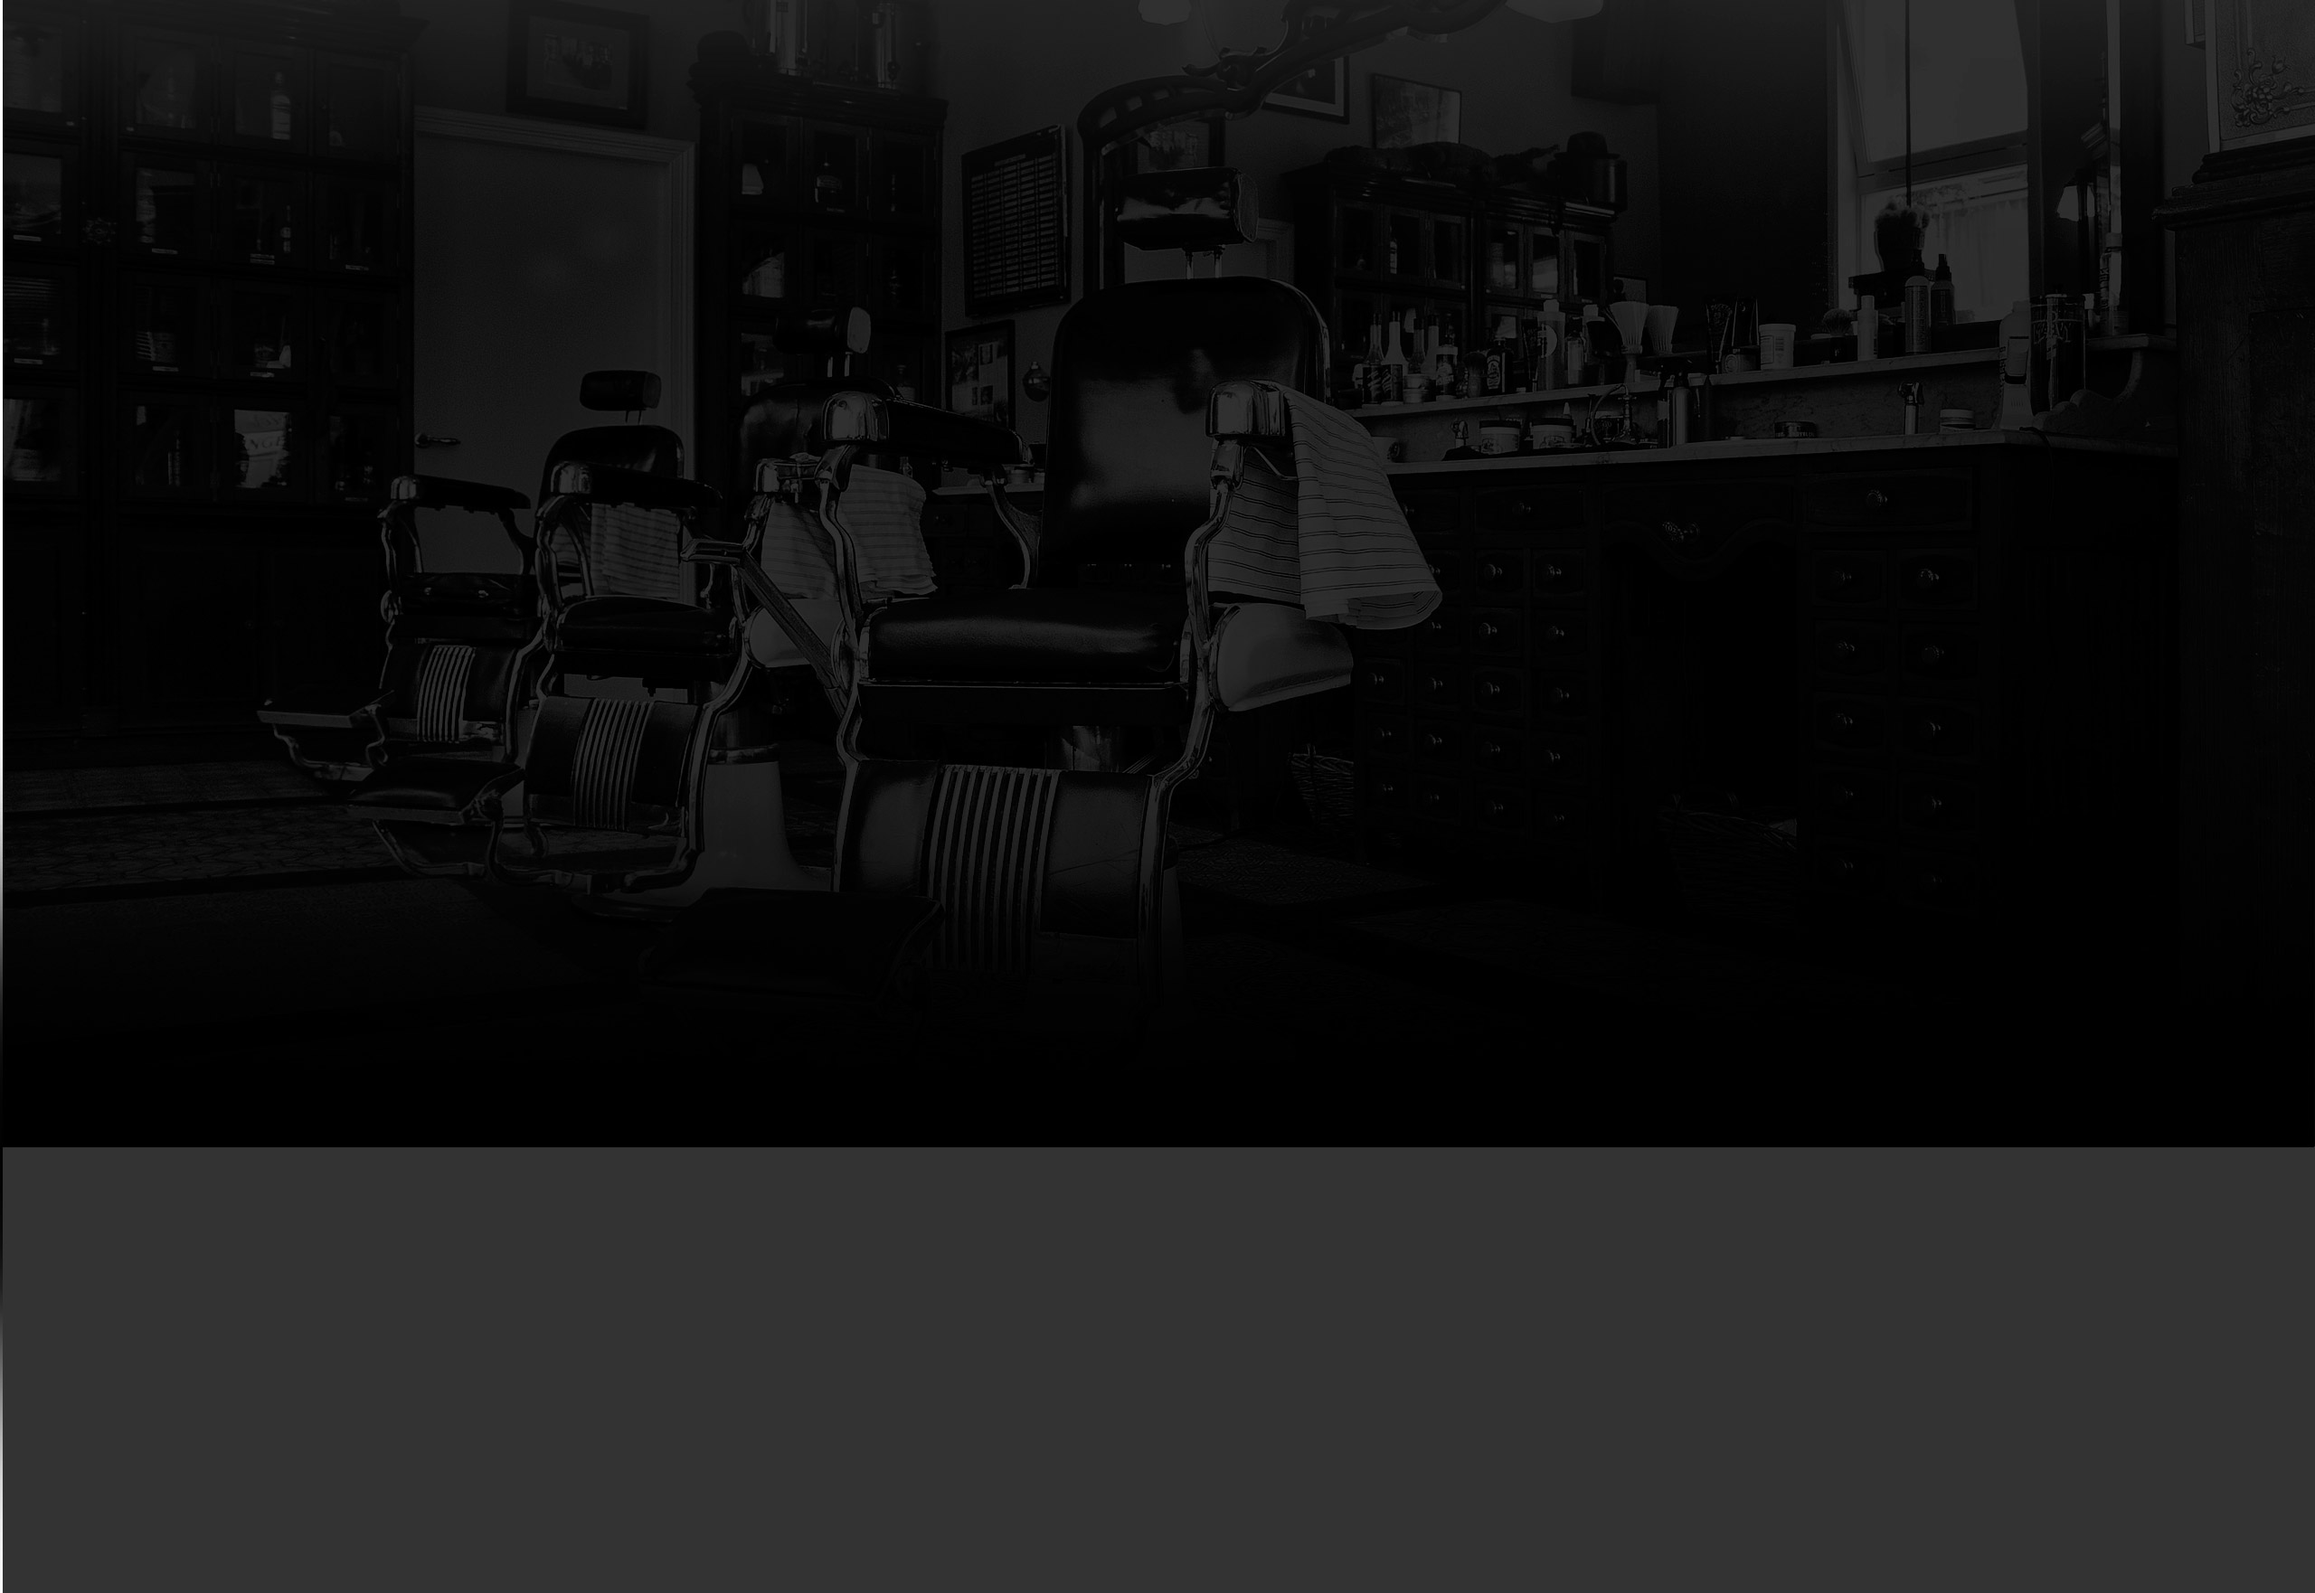
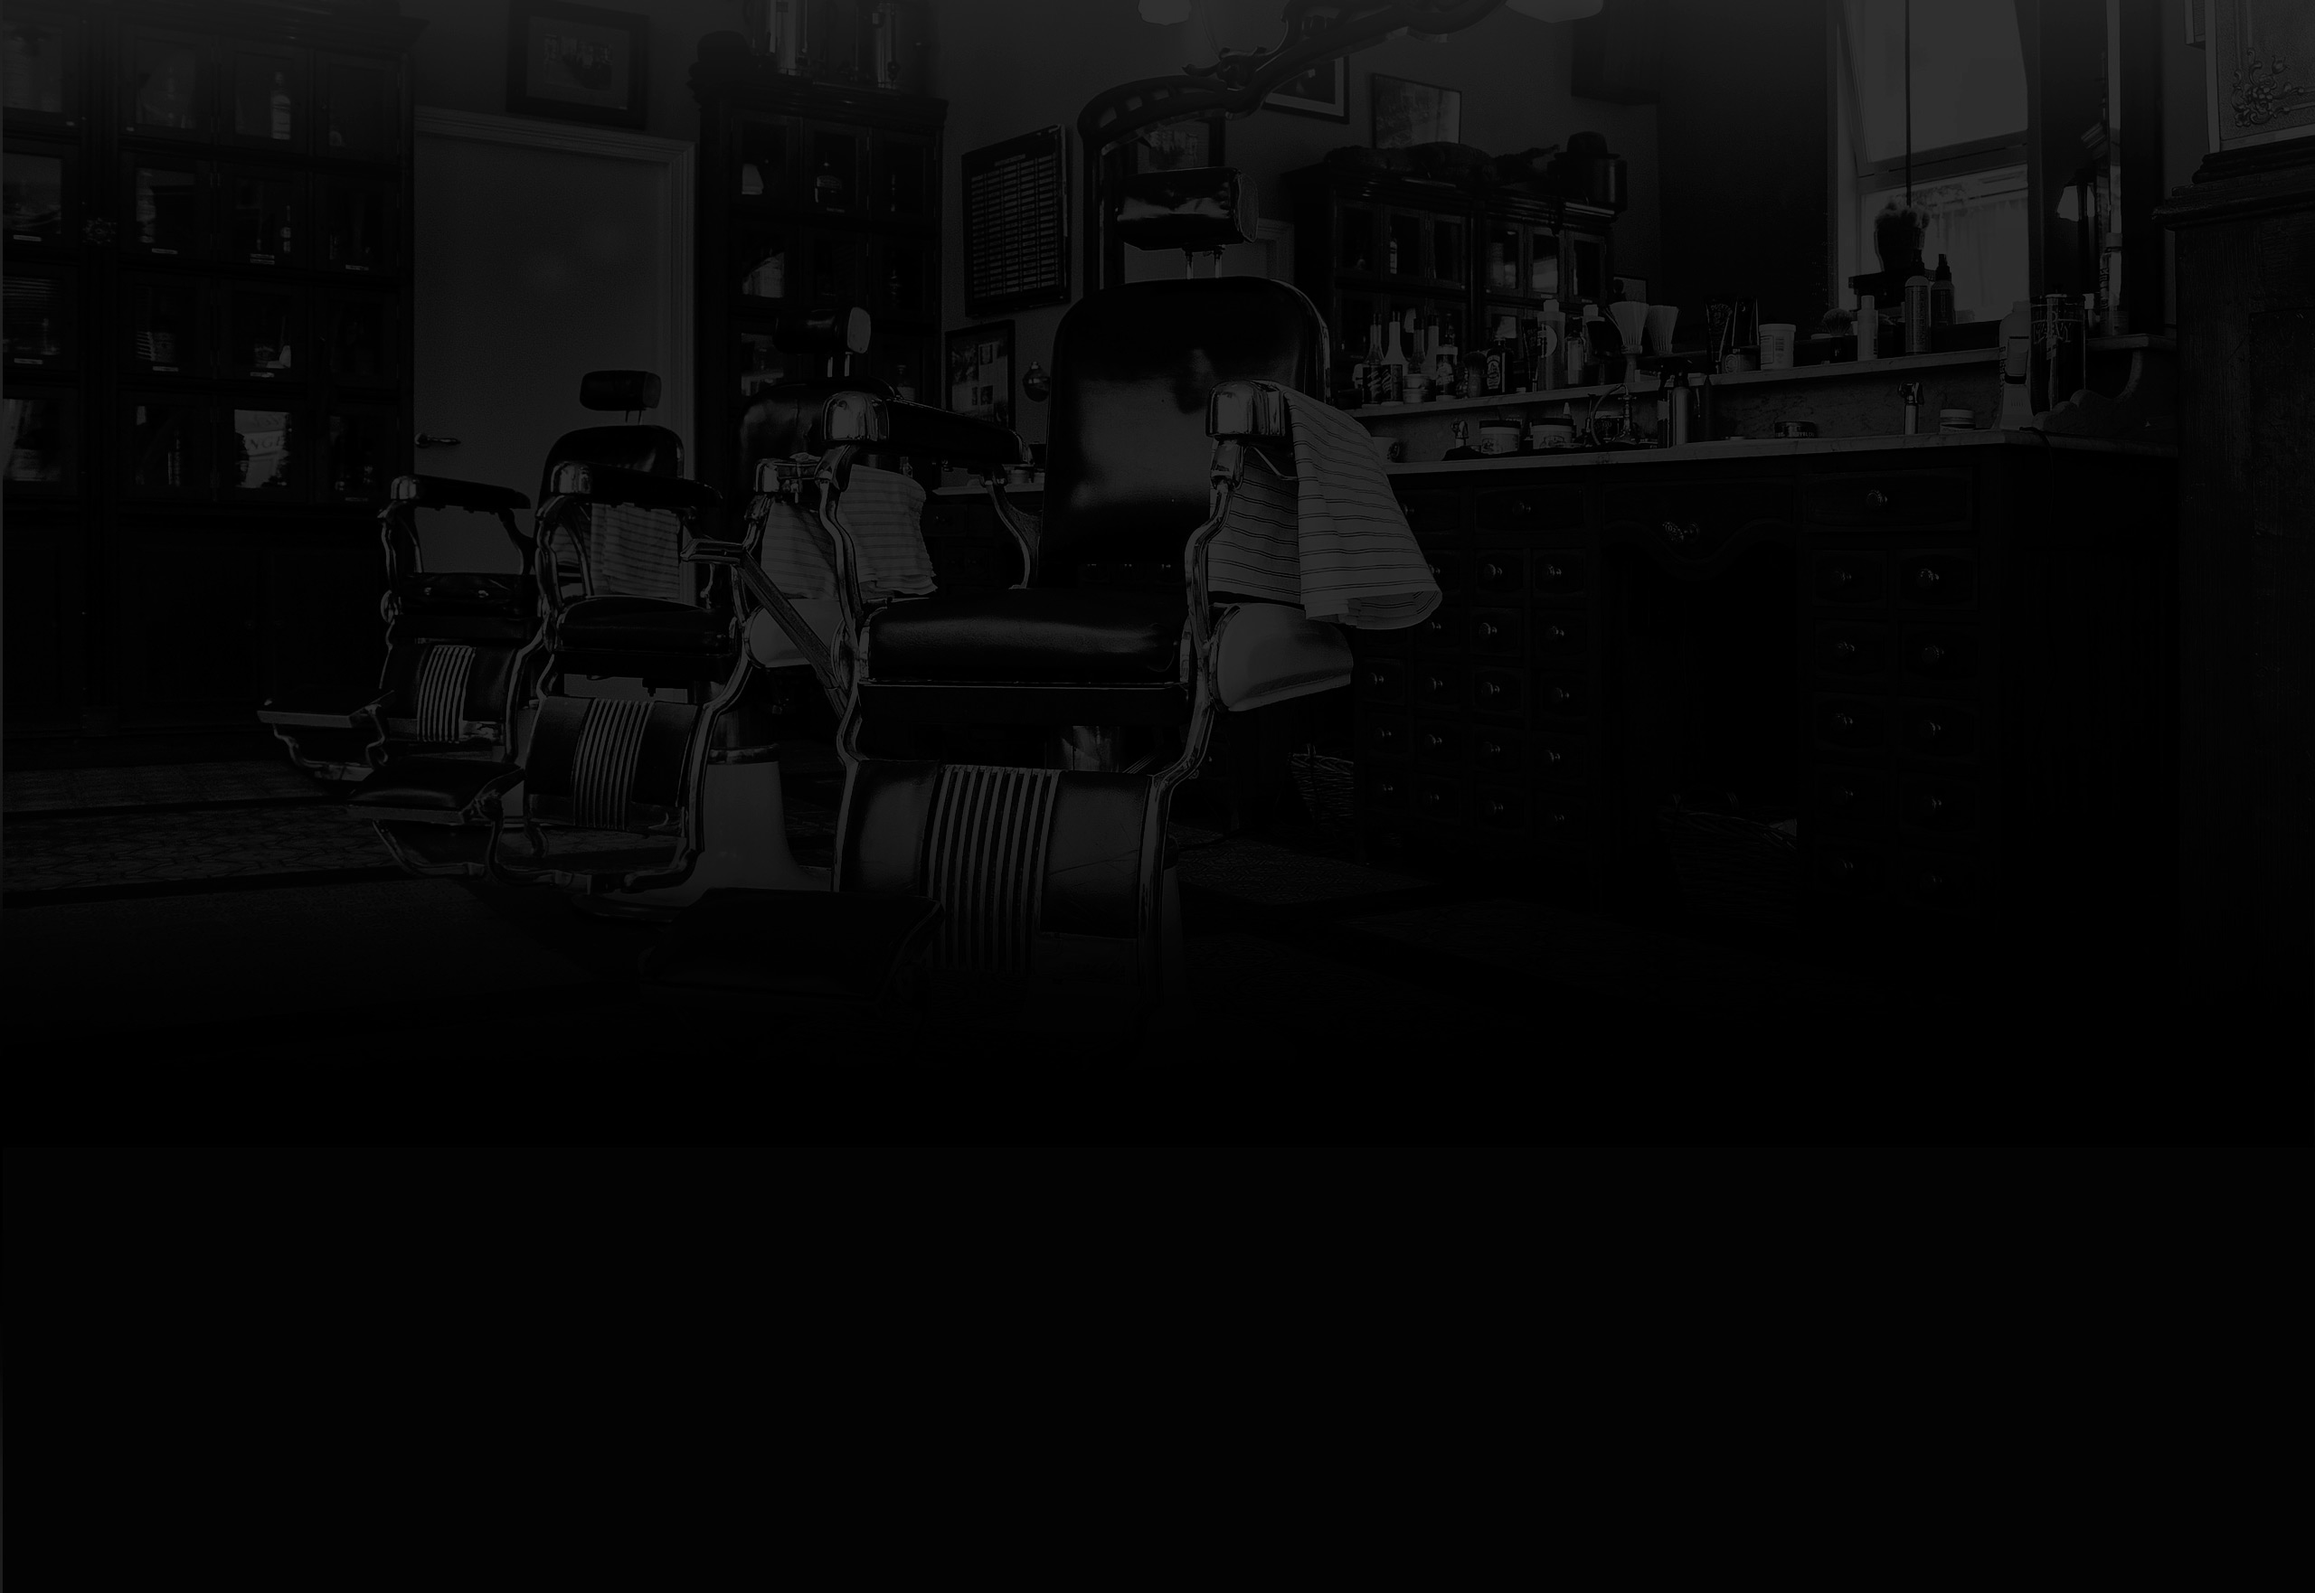
added footer

Changed region(s): [[0.0, 0.7179, 1.0, 1.0]]

diff --git a/index.html b/index.html
@@ -1,5 +1,5 @@
 <!DOCTYPE html>
-<html lang="en">
+<html lang="ru">
 <head>
     <meta charset="UTF-8">
     <title>Barbershop</title>
@@ -52,13 +52,13 @@
                    <div class="content-title">НОВОСТИ</div>
                    
                    <div class="content-descr">
-                       НАМ НАКОНЕЦ ЗАВЕЗЛИ ЯГЕРМАЙСТЕР! ТЕПЕРЬ ВЫ МОЖЕТЕ ПРОПУСТИТЬ СТАКАНЧИК ВО ВРЕМЯ
-                       <date></date>
+                       НАМ НАКОНЕЦ ЗАВЕЗЛИ ЯГЕРМАЙСТЕР! ТЕПЕРЬ ВЫ МОЖЕТЕ ПРОПУСТИТЬ СТАКАНЧИК ВО ВРЕМЯ 
+                       <div class="date">25 сентября</div>
                    </div>
                    
                    <div class="content-descr">
-                       В НАШЕЙ КОМАНДЕ ПОПОЛНЕНИЕ, БОРИС «БРИТВА» СТРИГУНЕЦ, ОБЛАДЕТЕЛЬ МНОЖЕСТВА ТИТУЛОВ И НАГРАД ПОПОЛНИЛ НАШИ СТРОЙНЫЕ РЯДЫ
-                       <date></date>
+                       В НАШЕЙ КОМАНДЕ ПОПОЛНЕНИЕ, БОРИС «БРИТВА» СТРИГУНЕЦ, ОБЛАДЕТЕЛЬ МНОЖЕСТВА ТИТУЛОВ И НАГРАД ПОПОЛНИЛ НАШИ СТРОЙНЫЕ РЯДЫ 
+                       <div class="date">19 сентября</div>
                    </div>
                    
                    <a href="#" class="btn-min">ВСЕ НОВОСТИ</a>
@@ -87,10 +87,8 @@
                        ВРЕМЯ РАБОТЫ: <br>
                        ПН — ПТ: С 10:00 ДО 22:00 <br>
                        СБ — ВС: С 10:00 ДО 19:00
-                       <date></date>
                    </div>
-
-                   <a href="#" class="btn-min">КАК ПРОЕХАТЬ</a>
+                   <a href="#" class="btn-min left-btn">КАК ПРОЕХАТЬ</a>
                    <a href="#" class="btn-min">ОБРАТНАЯ СВЯЗЬ</a>
                </div>
                <div class="content-right">
@@ -101,9 +99,9 @@
                    </div>
                    
                    <form action="post">
-                       <input class="form-text" type="text" name="date" value="ДАТА">
+                       <input class="form-text form-left" type="text" name="date" value="ДАТА">
                        <input class="form-text" type="text" name="time" value="ВРЕМЯ">
-                       <input class="form-text" type="text" name="name" value="ВАШЕ ИМЯ">
+                       <input class="form-text form-left" type="text" name="name" value="ВАШЕ ИМЯ">
                        <input class="form-text" type="text" name="phone" value="ТЕЛЕФОН">
                        <input class="form-btn" type="submit" value="ОТПРАВИТЬ">
                    </form>
@@ -120,8 +118,29 @@
     </main>
 <!--    end main-->
 
-    <footer>
-        
+    <footer class="index-footer">
+       <div class="container">
+           <div class="footer-descr">
+               БАРБЕРШОП «БОРОДИНСКИЙ»<br>
+               АДРЕС: Г. САНКТ-ПЕТЕРБУРГ, Б. КОНЮШЕННАЯ, Д. 19/8 <br>
+               <a href="#">КАК НАС НАЙТИ?</a> <br>
+               ТЕЛЕФОН: +7 (495) 666-02-66
+           </div>
+           
+           <div class="footer-social">
+               <div class="social-title">ДАВАЙТЕ ДРУЖИТЬ!</div>
+               <a class="vk" href="#"></a>
+               <a class="fb" href="#"></a>
+               <a class="inst" href="#"></a>
+           </div>
+           
+           <div class="footer-dev">
+               <div class="dev-title">РАЗРАБОТАНО:</div>
+               <a class="dev-academy" href="htmlacademy.ru">HTMLACADEMY.RU</a>
+           </div>
+           
+           
+       </div>
     </footer>
 <!--    end footer-->
 </body>

diff --git a/css/style.css b/css/style.css
@@ -2,6 +2,9 @@
     font-family: PTSans Narrow;
     src: url(../fonts/web/ptsansnarrow.woff); 
     
+    
+}
+@font-face {
     font-family: PTSans Narrow Bold;
     src: url(../fonts/web/ptsansnarrowbold.woff); 
 }
@@ -53,7 +56,7 @@ table {
 /*end reset*/
 
 body{
-    background-image: url("../img/background.jpg");
+    background:black url("../img/background.jpg");
     background-repeat: no-repeat;
     background-position:top;
     font-family: "PTSans Narrow", sans-serif;
@@ -106,7 +109,8 @@ body{
 }
 .index-logo{
     width: 368px;
-    margin: 50px auto; 
+    margin: 60px auto; 
+    margin-bottom: 30px;
 }
 
 .features{
@@ -143,14 +147,12 @@ body{
     line-height: 24px;
     text-align: center;
 }
-.features:last-child{
-    margin-right: 0px;
-}
 .index-content{
     background:
         url(../img/content-separator.png) no-repeat center,
         #f8f5f2 url(../img/index-content-bg.png);
     margin-top: 35px;
+    margin-bottom: 45px;
 }
 .content-left{
     display: inline-block;
@@ -171,7 +173,7 @@ body{
 .content-title{
     font-family: "PTSans Narrow Bold", sans-serif;
     font-size: 30px;
-    margin-bottom: 30px;
+    margin-bottom: 35px;
     margin-top: 50px;
    
 }
@@ -179,7 +181,10 @@ body{
     font-family: "PTSans Narrow Bold", sans-serif;
     font-size: 14px;
     line-height: 24px;
-    margin-bottom: 40px;
+    margin-bottom: 30px;
+}
+.date{
+    font-family: "PTSans Narrow", sans-serif;
 }
 .btn-min{
     display: inline-block;
@@ -202,13 +207,113 @@ a.btn-min{
 .content-gallery{
     display: block;
     margin: 0 auto;
-    margin-bottom: 40px;
+    margin-bottom: 50px;
+    margin-top: 50px;
 }
 .left-btn{
     margin-right: 15px;
 }
-.content-right::before{
-    content: "";
-    background-image: url(../img/content-separator.svg);
+.form-text{
+    height: 40px;
+    width: 126px;
+    border: 2px solid black;
+    margin-bottom: 20px;
+    
+    font-family: "PTSans Narrow Bold", sans-serif;
+    font-size: 14px;
+    line-height: 22px;
+    padding-left: 10px;
+    
+}
+.form-left{
+    margin-right: 13px;
+}
+.form-btn{
+    height: 40px;
+    width: 100%;
+    
+    font-family: "PTSans Narrow Bold", sans-serif;
+    font-size: 14px;
+    color: white;
+    
+    background-color: black;
+    border: 0px;
+}
+.form-btn:hover{
+    cursor:pointer;
 }
 
+.index-footer{
+    background: url(../img/index-footer.jpg);
+    
+    font-family: "PTSans Narrow Bold", sans-serif;
+    font-size: 14px;
+    line-height: 24px;
+    color: white;
+    padding-bottom: 40px;
+}
+
+.footer-descr{
+    display: inline-block;
+    width: 380px;
+       
+}
+.footer-descr a{
+    color: white;
+}
+.footer-social{
+    display: inline-block;
+    width: 140px;
+}
+.vk, .fb, .inst{
+    display: inline-block;
+    width: 42px;
+    height: 42px;
+    background-color: black;
+    margin-right: 4px;
+}
+.vk{
+    background-image: url(../img/social-vk.png);
+    background-position: center;
+    background-repeat: no-repeat;
+}
+.fb{
+    background-image: url(../img/social-fb.png);
+    background-position: center;
+    background-repeat: no-repeat;
+}
+.inst{
+    background-image: url(../img/social-inst.png);
+    background-position: center;
+    background-repeat: no-repeat;
+    margin-right: 0px;
+}
+.social-title{
+    text-align: center;
+    margin-top: 60px;
+    margin-bottom: 15px;
+}
+
+.footer-dev{
+    display: inline-block;
+    width: 140px;
+    margin-left: 260px;
+    vertical-align: top;
+}
+.dev-title{
+    text-align: center;
+    margin-top: 60px;
+    margin-bottom: 15px;
+}
+.dev-academy{
+    display: inline-block;
+    width: 100%;
+    height: 42px;
+    background-color: black;
+}
+.dev-academy{
+    color: white;
+    text-decoration: none;
+    text-align: center;
+    line-height: 42px;
+}
